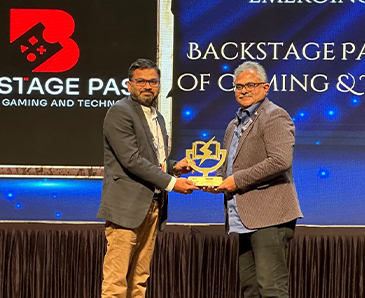
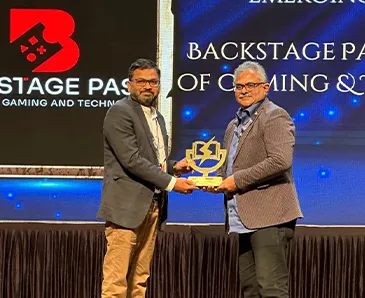
images compressed

diff --git a/src/content/awards.js b/src/content/awards.js
@@ -9,6 +9,17 @@ import aw24 from "../assets/img/awards/Times_Education_Excellence_2024.webp";
 import aw25 from "../assets/img/awards/ET_Achievers_2025.webp";
 import bui6 from "../assets/img/esa245.webp";
 
+
+//compressed images
+import aw25310 from "../assets/img/awards/ET_Achievers_2025-310w.webp";
+import aw24310 from "../assets/img/awards/Times_Education_Excellence_2024-310w.webp";
+import aw21310 from "../assets/img/awards/Times_Education_Excellence_2021-310w.webp";
+import bui6310 from "../assets/img/esa245-310w.webp";
+import aw22310 from "../assets/img/awards/Times_Education_Excellence_2022-310w.webp";
+import aw23310 from "../assets/img/awards/Times_Education_Excellence_2023-310w.webp";
+import aw18310 from "../assets/img/awards/Best_Education_Brand_2018-310w.webp";
+import aw19310 from "../assets/img/awards/Times_Education_Excellence_2019-310w.webp";
+import aw20310 from "../assets/img/awards/Time_Excellence_Awards_2020-310w.webp";
 import "./awards.css"
 
 
@@ -25,7 +36,21 @@ function Awards() {
 
                                 <div class="containergawardh">
                                     <div class="cardsgawardh">
-                                        <img src={aw25} alt="ET Industry Achievers 2025" width="365" height="298" />
+                                        {/* <img src={aw25} alt="ET Industry Achievers 2025" width="310" height="298" /> */}
+                                        <img
+                                            src={aw25310}   // smallest image as default
+                                            srcSet={`${aw25310} 310w,${aw25} 365w`}
+                                            sizes="(max-width: 480px) 310px, 365px"
+                                            alt="ET Industry Achievers 2025"
+                                            width={310}
+                                            height={253}
+                                            loading="eager"
+                                            fetchpriority="high"
+                                            decoding="async"
+                                            style={{ width: "100%", height: "auto" }}
+                                        />
+
+
                                         <p>2025</p>
                                         <div class="overlaysawardh">
                                             <h3>ET Industry Achievers <br /><br /> 2025 </h3>
@@ -33,15 +58,38 @@ function Awards() {
                                         </div>
                                     </div>
                                     <div class="cardsgawardh">
-                                        <img src={aw24} alt="Times Education Award 2024" width="365" height="298" />
+                                        <img
+                                            src={aw24310}   // smallest image as default
+                                            srcSet={`${aw24310} 310w,${aw24} 365w`}
+                                            sizes="(max-width: 480px) 310px, 365px"
+                                            alt="Times Education Excellence Award 2024"
+                                            width={310}
+                                            height={253}
+                                            loading="eager"
+                                            fetchpriority="high"
+                                            decoding="async"
+                                            style={{ width: "100%", height: "auto" }}
+                                        />
                                         <p>2024</p>
                                         <div class="overlaysawardh">
                                             <h3>Times Education Excellence Award <br /><br />  2024</h3>
 
                                         </div>
                                     </div>
-                                         <div class="cardsgawardh">
-                                        <img src={bui6} alt="EduSpark Awards 2023" width="365" height="298"/>
+                                    <div class="cardsgawardh">
+                                        {/* <img src={bui6} alt="EduSpark Awards 2023" width="365" height="298"/> */}
+                                          <img
+                                            src={bui6310}   // smallest image as default
+                                            srcSet={`${bui6310} 310w,${bui6} 365w`}
+                                            sizes="(max-width: 480px) 310px, 365px"
+                                            alt="EduSpark Awards 2023"
+                                            width={310}
+                                            height={253}
+                                            loading="eager"
+                                            fetchpriority="high"
+                                            decoding="async"
+                                            style={{ width: "100%", height: "auto" }}
+                                        />
                                         <p>2023</p>
                                         <div class="overlaysawardh">
                                             <h3>EduSpark Awards  <br /><br />  2023</h3>
@@ -49,7 +97,19 @@ function Awards() {
                                         </div>
                                     </div>
                                     <div class="cardsgawardh">
-                                        <img src={aw23} alt="Times Education Award 2023" width="365" height="298"/>
+                                        {/* <img src={aw23} alt="Times Education Award 2023" width="365" height="298"/> */}
+                                         <img
+                                            src={aw23310}   // smallest image as default
+                                            srcSet={`${aw23310} 310w,${aw23} 365w`}
+                                            sizes="(max-width: 480px) 310px, 365px"
+                                            alt="Times Education Excellence Award 2023"
+                                            width={310}
+                                            height={253}
+                                            loading="eager"
+                                            fetchpriority="high"
+                                            decoding="async"
+                                            style={{ width: "100%", height: "auto" }}
+                                        />
                                         <p>2023</p>
                                         <div class="overlaysawardh">
                                             <h3>Times Education Excellence Award <br /><br />  2023</h3>
@@ -58,14 +118,39 @@ function Awards() {
                                     </div>
 
                                     <div class="cardsgawardh">
-                                        <img src={aw22} alt="Times Education Award 2022" width="365" height="298" />
+                                        {/* <img src={aw22} alt="Times Education Award 2022" width="365" height="298"/> */}
+                                        
+                                        <img
+                                            src={aw22310}   // smallest image as default
+                                            srcSet={`${aw22310} 310w,${aw22} 365w`}
+                                            sizes="(max-width: 480px) 310px, 365px"
+                                            alt="Times Education Excellence Award 2022"
+                                            width={310}
+                                            height={253}
+                                            loading="eager"
+                                            fetchpriority="high"
+                                            decoding="async"
+                                            style={{ width: "100%", height: "auto" }}
+                                        />
                                         <p>2022</p>
                                         <div class="overlaysawardh">
                                             <h3>Times Education Excellence Award <br /><br />  2022</h3>
                                         </div>
                                     </div>
                                     <div class="cardsgawardh">
-                                        <img src={aw21} alt="Times Education Award 2021" width="365" height="298" />
+                                      
+                                        <img
+                                            src={aw21310}   // smallest image as default
+                                            srcSet={`${aw21310} 310w,${aw21} 365w`}
+                                            sizes="(max-width: 480px) 310px, 365px"
+                                            alt="Times Education Excellence Award 2021"
+                                            width={310}
+                                            height={253}
+                                            loading="eager"
+                                            fetchpriority="high"
+                                            decoding="async"
+                                            style={{ width: "100%", height: "auto" }}
+                                        />
                                         <p>2021</p>
                                         <div class="overlaysawardh">
                                             <h3>Times Education Excellence Award <br /><br />  2021</h3>
@@ -73,7 +158,19 @@ function Awards() {
                                         </div>
                                     </div>
                                     <div class="cardsgawardh">
-                                        <img src={aw20} alt="Times Education Award 2020" width="365" height="298"/>
+                                        {/* <img src={aw20} alt="Times Education Award 2020" width="365" height="298"/> */}
+                                            <img
+                                            src={aw20310}   // smallest image as default
+                                            srcSet={`${aw20310} 310w,${aw20} 365w`}
+                                            sizes="(max-width: 480px) 310px, 365px"
+                                            alt="Times Education Excellence Award 2020"
+                                            width={310}
+                                            height={253}
+                                            loading="eager"
+                                            fetchpriority="high"
+                                            decoding="async"
+                                            style={{ width: "100%", height: "auto" }}
+                                        />
                                         <p>2020</p>
                                         <div class="overlaysawardh">
                                             <h3>Times Excellence Award <br /><br />  2020</h3>
@@ -81,7 +178,19 @@ function Awards() {
                                         </div>
                                     </div>
                                     <div class="cardsgawardh">
-                                        <img src={aw19} alt="Times Education Award 2019" width="365" height="298" />
+                                        {/* <img src={aw19} alt="Times Education Award 2019" width="365" height="298"/> */}
+                                              <img
+                                            src={aw19310}   // smallest image as default
+                                            srcSet={`${aw19310} 310w,${aw19} 365w`}
+                                            sizes="(max-width: 480px) 310px, 365px"
+                                            alt="Times Education Excellence Award 2019"
+                                            width={310}
+                                            height={253}
+                                            loading="eager"
+                                            fetchpriority="high"
+                                            decoding="async"
+                                            style={{ width: "100%", height: "auto" }}
+                                        />
                                         <p>2019</p>
                                         <div class="overlaysawardh">
                                             <h3>Times Education Excellence Award <br /><br />  2019</h3>
@@ -90,7 +199,19 @@ function Awards() {
                                     </div>
 
                                     <div class="cardsgawardh">
-                                        <img src={aw18} alt="Best Education Brand Award 2018" width="365" height="298" />
+                                        {/* <img src={aw18} alt="Best Education Brand Award 2018" width="365" height="298"/> */}
+                                            <img
+                                            src={aw18310}   // smallest image as default
+                                            srcSet={`${aw18310} 310w,${aw18} 365w`}
+                                            sizes="(max-width: 480px) 310px, 365px"
+                                            alt="Best Education Brand Award Economic Times 2018"
+                                            width={310}
+                                            height={253}
+                                            loading="eager"
+                                            fetchpriority="high"
+                                            decoding="async"
+                                            style={{ width: "100%", height: "auto" }}
+                                        />
                                         <p>2018</p>
                                         <div class="overlaysawardh">
                                             <h3>Best Education Brand Award Economic Times <br /><br />  2018</h3>
